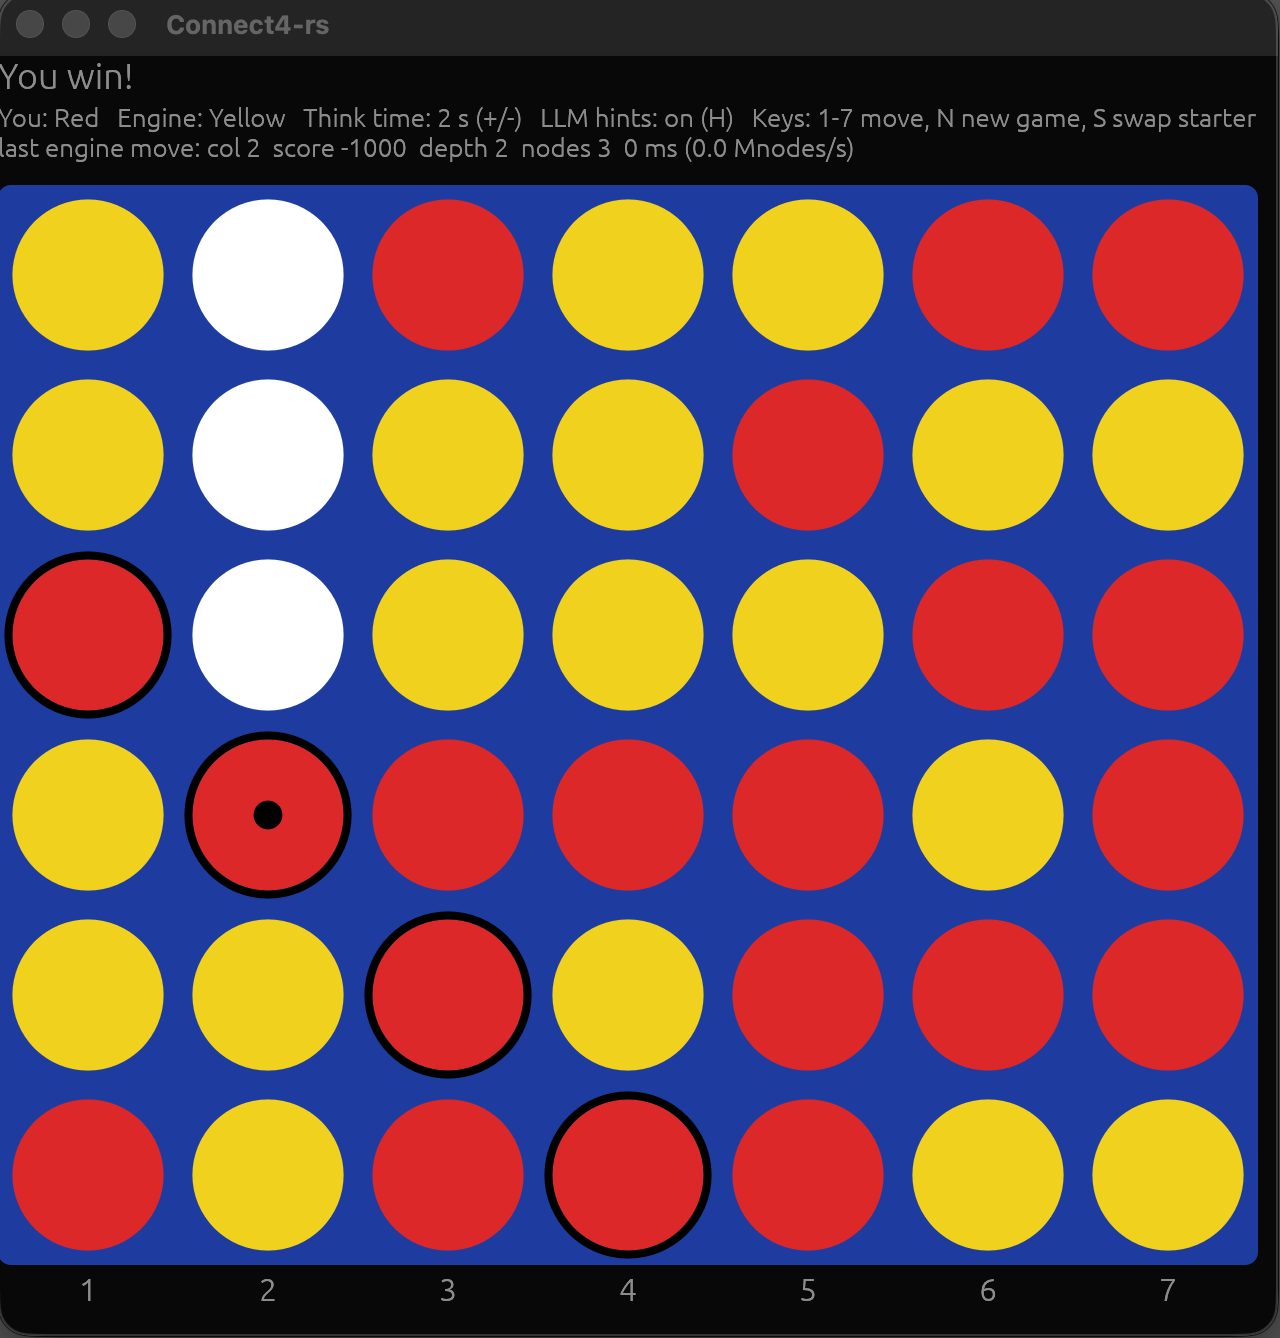
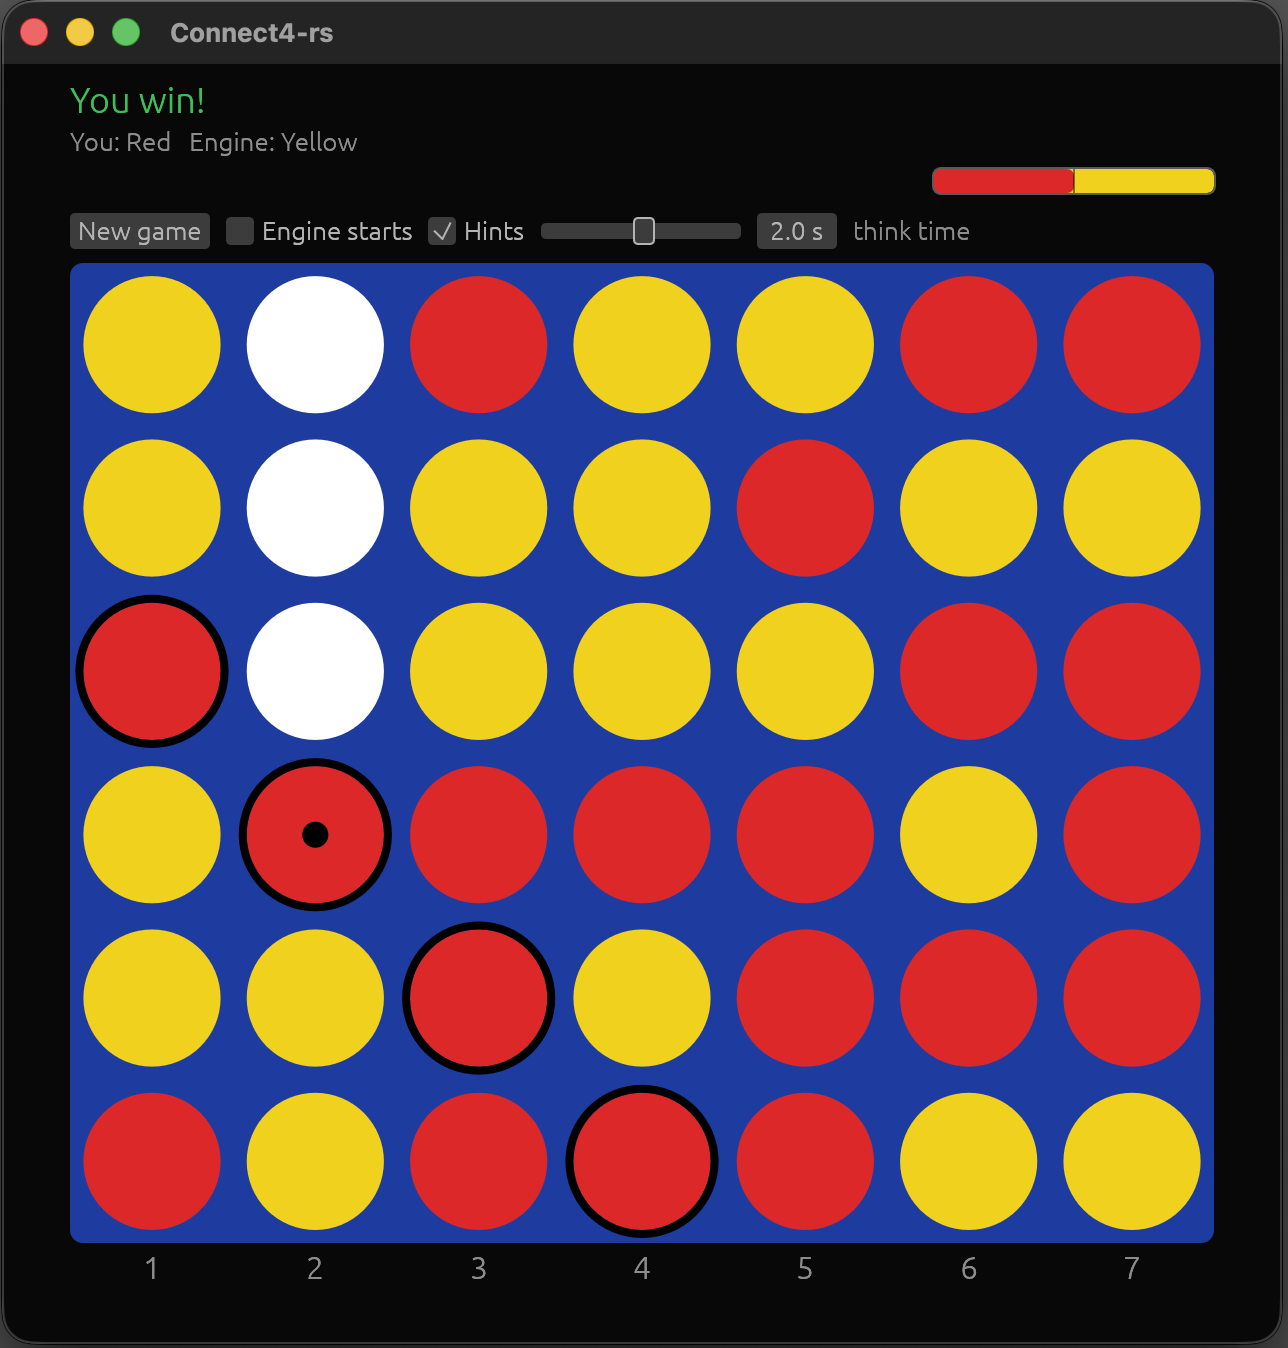
README: welcoming intro, screenshot up top, highlights and quick start
Tagline, feature highlights and quick start ahead of the deep dive; the
winning-board screenshot moves to the top and the results section refers
back to it. Drop the reference to the old Java repo, fold the build
section into quick start, format the engine-ideas notes as a list.

diff --git a/src/server.rs b/src/server.rs
@@ -1,6 +1,7 @@
 //! Minimal control socket: one JSON object per line in, one JSON line out.
 //! {"cmd":"state"} | {"cmd":"move","col":1..7} | {"cmd":"new","engine_starts":bool}
 //! {"cmd":"hints","on":bool}   toggles LLM assistance (see hints.rs)
+//! {"cmd":"replay","moves":[..]} replays a full game (both sides) into place
 //! `move` blocks until the engine has answered (or the game ended).
 
 use crate::game::{Game, Shared, Status, PORT};
@@ -81,6 +82,27 @@ fn execute(shared: &Shared, req: &Value) -> Value {
             wait_engine(shared);
             json!(shared.game.lock().unwrap().to_json())
         }
+        Some("replay") => {
+            let moves: Vec<usize> = match req.get("moves").and_then(Value::as_array) {
+                Some(a) if a.iter().all(|m| m.as_u64().is_some_and(|m| (1..=7).contains(&m))) => {
+                    a.iter().map(|m| m.as_u64().unwrap() as usize - 1).collect()
+                }
+                _ => return json!({"error": "replay needs moves: array of columns 1..7"}),
+            };
+            let es = req.get("engine_starts").and_then(Value::as_bool).unwrap_or(false);
+            let mut g = shared.game.lock().unwrap();
+            let mut ng = Game::new(es, g.budget, g.hints);
+            for (i, &c) in moves.iter().enumerate() {
+                if !ng.replay_move(c) {
+                    return json!({"error": format!("illegal replay move {} (col {})", i + 1, c + 1), "state": ng.to_json()});
+                }
+            }
+            *g = ng;
+            drop(g);
+            shared.notify();
+            wait_engine(shared);
+            json!(shared.game.lock().unwrap().to_json())
+        }
         Some("hints") => {
             let mut g = shared.game.lock().unwrap();
             if let Some(on) = req.get("on").and_then(Value::as_bool) {
@@ -91,6 +113,6 @@ fn execute(shared: &Shared, req: &Value) -> Value {
             shared.notify();
             json!(j)
         }
-        _ => json!({"error": "unknown cmd, use state | move | new | hints"}),
+        _ => json!({"error": "unknown cmd, use state | move | new | hints | replay"}),
     }
 }

diff --git a/src/game.rs b/src/game.rs
@@ -114,6 +114,17 @@ impl Game {
         }
     }
 
+    /// Replay move (0-based column) for whichever side is to move, engine
+    /// included - used by the control socket's replay command. Returns false
+    /// if the column is illegal or the game is over.
+    pub fn replay_move(&mut self, col: usize) -> bool {
+        if matches!(self.status, Status::Won(_) | Status::Draw) || !self.board.can_play(col) {
+            return false;
+        }
+        self.finish_move(col);
+        true
+    }
+
     /// Human move (0-based column). Returns false if illegal now.
     pub fn human_move(&mut self, col: usize) -> bool {
         if self.status != Status::HumanToMove || !self.board.can_play(col) {

diff --git a/README.md b/README.md
@@ -1,9 +1,38 @@
 # Connect4-rs
 
-Rust port of [Connect4](https://github.com/RainerZ/Connect4) (Java/JavaFX):
-a Connect Four engine (negamax with alpha/beta pruning on bitboards), an
-egui desktop GUI, and an [MCP](https://modelcontextprotocol.io) server so any
-LLM agent can play against the engine while you watch.
+**A Connect Four engine in Rust — play it yourself, or let your favourite
+LLM try to beat it while you watch.**
+
+Bitboard engine searching ~20 million positions per second, a clean egui
+desktop GUI, and an [MCP](https://modelcontextprotocol.io) server that turns
+the running game into three tools any LLM agent can play with.
+
+<p align="center"><img src="docs/winning-board.png" alt="Claude's winning board against the engine" width="520"></p>
+
+*The board above is a historic moment: the first game Claude won against
+the engine — more on that [below](#results-so-far).*
+
+## Highlights
+
+* **Fast engine** — two `u64` bitboards, incrementally updated evaluation,
+  negamax with alpha/beta, iterative deepening on a time budget. Endgames
+  are searched to the end; proven wins are announced and hopeless positions
+  resigned.
+* **Human-friendly GUI** — click to drop (with a landing ghost), gravity
+  drop animation, tactical hint rings, eval bar, think-time slider.
+* **LLM-friendly interface** — a JSON control socket and an MCP server with
+  optional tactical hints, so language models can play full games against
+  the engine and you can watch live.
+
+## Quick start
+
+```bash
+cargo build --release
+cargo run --release          # you are red and start; the engine answers
+```
+
+Requires a Rust toolchain (edition 2024, i.e. Rust ≥ 1.85). Build in
+release mode — the engine is roughly 10× slower in debug.
 
 ```
 src/
@@ -14,6 +43,7 @@ src/
   main.rs     egui/eframe GUI            -> binary `connect4-rs`
   mcp.rs      MCP stdio server           -> binary `connect4-mcp`
 ```
+(both binaries land in `target/release/`)
 
 ## What's there
 
@@ -75,6 +105,7 @@ The GUI listens on `127.0.0.1:4444`, one JSON object per line:
 {"cmd":"move","col":4}             # 1..7, blocks until the engine has answered
 {"cmd":"new","engine_starts":false}
 {"cmd":"hints","on":true}          # toggle LLM hints, returns the state
+{"cmd":"replay","moves":[4,4,…]}   # replay a full game, both sides' columns
 ```
 
 Replies contain the board (`rows`, top row first, `R`/`Y`/`.`), `status`
@@ -113,18 +144,6 @@ that forwards four tools to the running GUI:
 Each result is a text rendering of the board (plus a `hints:` line when
 enabled) followed by the raw JSON state.
 
-## Build
-
-Requires a Rust toolchain (edition 2024, i.e. Rust ≥ 1.85).
-
-```bash
-cargo build --release
-```
-
-This produces `target/release/connect4-rs` (GUI) and
-`target/release/connect4-mcp` (MCP server). Build in release mode — the
-engine is roughly 10× slower in debug.
-
 ## Test
 
 ```bash
@@ -152,11 +171,8 @@ cargo test --release bench_search -- --ignored --nocapture
 
 ### Yourself, in the GUI
 
-```bash
-cargo run --release
-```
-
-You play red and move first; press `S` to let the engine start.
+`cargo run --release` — you play red and move first; use the settings strip
+or press `S` to let the engine start.
 
 ### From a script or shell
 
@@ -226,9 +242,9 @@ parity/zugzwang squeeze in 34 plies; a diagonal + vertical double threat in
 height and handing the engine a double diagonal). Every loss traced back to
 a bookkeeping error, not strategy — which is what motivated the hints.
 
-With hints on, Claude (red) beat the engine (2 s budget, depth 12–20):
-
-![Winning board: red wins, the GUI highlighting the c4r1-c1r4 diagonal](docs/winning-board.png)
+With hints on, Claude (red) beat the engine (2 s budget, depth 12–20) —
+that game's final position is the screenshot at the top of this page, with
+the winning line circled.
 
 Protocol of the win (columns 1–7; `Rc`/`Yc` = red/yellow drop in column c):
 
@@ -244,16 +260,23 @@ Protocol of the win (columns 1–7; `Rc`/`Yc` = red/yellow drop in column c):
 | 27–28 | R1 Y1 | red breaks yellow's column-1 vertical |
 | 29–34 | R7 Y1, R7 Y7, R7 Y6 | red's **column-7 vertical threat** forces yellow's block — the tempo gain that wins the zugzwang |
 | 35–38 | R6 Y3, R3 Y2 | red seals row 6, blocks c3r6; yellow is out of safe squares and must enter column 2 |
-| 39 | **R2** | c2r3 completes two fours at once: 2-3-4-5 on row 3 and the c4r1–c1r4 diagonal (highlighted in the screenshot) — red wins |
+| 39 | **R2** | c2r3 completes two fours at once: 2-3-4-5 on row 3 and the c4r1–c1r4 diagonal (circled in the screenshot at the top) — red wins |
 
 The hints did exactly what they were built for: they caught the two forced
 blocks and kept the column heights straight, while the strategy (the c5r5
 prophylaxis, freezing column 2, the tempo fight) was the model's own.
 
 
-### Notes
+### Ideas for the engine
 
-Ways the engine could be made to handle this knowingly, roughly in order of payoff:
+Ways the engine could handle such positions knowingly, roughly in order of
+payoff:
 
-Transposition table — lets the same depth search far more cheaply, so the exhaustive endgame phase starts earlier. Purely a speed win, no knowledge needed.
-Threat-aware evaluation — count open three-in-a-rows with a playable-eventually fourth square, and weight them by row parity (odd rows for red, even for yellow). This is the classic Connect Four heuristic from Victor Allis's thesis and gives the engine the concept directly instead of relying on search depth.
+* **Transposition table** — lets the same depth search far more cheaply, so
+  the exhaustive endgame phase starts earlier. Purely a speed win, no
+  knowledge needed.
+* **Threat-aware evaluation** — count open three-in-a-rows with a
+  playable-eventually fourth square, and weight them by row parity (odd
+  rows for the first player, even for the second). The classic Connect Four
+  heuristic from Victor Allis's thesis; it gives the engine the concept
+  directly instead of relying on search depth.
